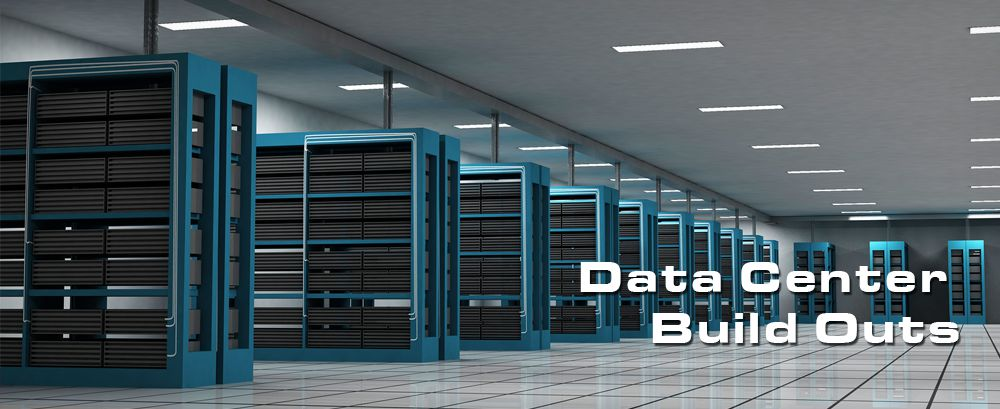
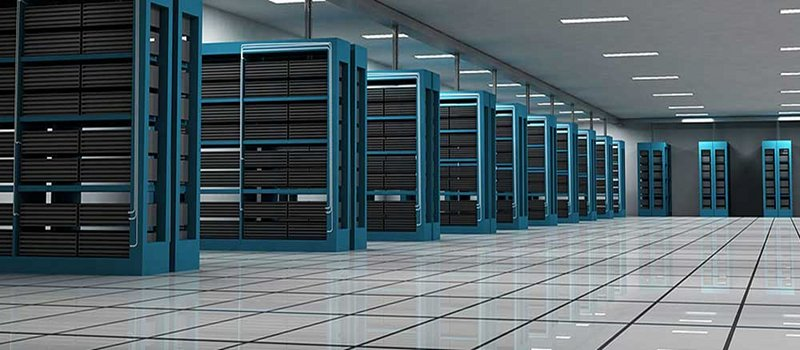
mian hero
starting to change the main hero section, in the main index.hmtl and style.css

diff --git a/style.css b/style.css
@@ -1,6 +1,7 @@
 body{
 margin: 0 !important;
 padding: 0 !important;
+background-color: #EAEAEA;
 /* cursor: url(img/cursor_img/my-mouse-pointer.cur), auto !important; */
 /* cursor: url("img/cursor_img/X3_arrow.gif"), default !important;
 cursor: url("img/cursor_img/X3_arrow.gif"), pointer !important; */
@@ -211,7 +212,6 @@ ul li div a {
     width: 100%;
     height: 100%;
     background-color: #080e20;
-    clip-path: polygon(0 0, 60% 0, 40% 100%, 0 100%);
     animation: slice_animation 0.5s ease-out;
     backface-visibility: hidden;
  
@@ -219,9 +219,8 @@ ul li div a {
 
 .slice::after {
     content: "";
-    background: url(img/test-hero.jpg);
+    background: url(img/heroimage.jpg);
     background-repeat: no-repeat;
- 
     background-size: cover;
     opacity: 0.5;
     top: 0;
@@ -230,21 +229,53 @@ ul li div a {
     right: 0;
     position: absolute;
     z-index: -1;   
+    background-position: 50% 23%;
+  }
+
+  .hero_title{
+      display: inline-block;
+      position: absolute; 
+      transform: translate(-50%,-50%);
+      top: 80%;
+      left: 50%;
+      z-index:13;
+      opacity: 0;
   }
 
 
-@keyframes slice_animation{
-    0%{
-        opacity: 0;
-        transform: translateX(-500px);
-    }
-
-    100%{
-        opacity: 1;
-        transform: translate(0);
-    }
+  .main_title{
+    text-transform: uppercase;
+    position: absolute;
+    z-index: 100;
+    padding: 0;
+    margin:0;
+    left: 0%;
+    top: -74%;
+    transform: translate(-50%,-50%);
+    transform: scale(0.2);
+    color: white;
+    margin-top: 0;
+    text-align: center;
+    white-space: nowrap;
+    overflow: hidden; 
+    text-overflow: ellipsis;
+    white-space: nowrap;
+    opacity: 1;
+    animation: 1s main_logo_up ease ;
+    animation-delay: 1s;
 }
 
+  @keyframes main_logo_up{
+      0%{
+          top: -74;
+   
+      }
+
+      100%{
+        top: -80%;
+
+        }
+  }
 
 
 .video_slice video{
@@ -395,24 +426,7 @@ ul li div a {
 
 
 
-.main_title{
-    text-transform: uppercase;
-    position: absolute;
-    z-index: 100;
-    padding: 0;
-    margin:0;
-    left:75%;
-    top: 52%;
-    transform: translate(-50%,-50%);
-    color: white;
-    margin-top: 0;
-    text-align: center;
-    white-space: nowrap;
-    overflow: hidden; 
-    text-overflow: ellipsis;
-    white-space: nowrap;
 
-}
 
 
 .main_title div{

diff --git a/fonts/fonts.css b/fonts/fonts.css
@@ -42,7 +42,11 @@ h5{
     font-size: calc(14px + (17 - 14) * ((100vw - 300px) / (1900 - 700)))!important;
 } 
 
-
+.hero_title{
+    font-size: calc(24px + (90 - 24) * ((100vw - 300px) / (1900 - 700)))!important;
+    font-family: 'Roboto'!important;
+    color:white;
+}
 .main_title div{
     font-size: calc(24px + (90 - 24) * ((100vw - 300px) / (1900 - 700)))!important;
     font-family: 'Roboto'!important;

diff --git a/grids/main_grid.css b/grids/main_grid.css
@@ -206,7 +206,7 @@
 }
 
 
-@media (min-width : 280px)  and (max-width: 768px) {
+@media (min-width : 230px)  and (max-width: 768px) {
     .fancy_cards{  
         display: none;
     }

diff --git a/index.php b/index.php
@@ -129,10 +129,9 @@
     <div class="hero" >
 
 
-        <h1 class="main_title">
-               <div class="com_name" unselectable="on">GT Group</div>  
-               <div> <small unselectable="on">inteligent solution</small> </div>
-        </h1>
+      
+               <img class="main_title  " src="img/icons/logo2.svg" alt="">
+                <h1 class="display-2 hero_title" > Inteligent Solution</h1>
 
 
 
@@ -145,17 +144,6 @@
         </div>
 
 
-        <div class="hero_sm_image1">
-            <img src="img/server2_transparant.png" alt="">
-        </div>
-
-        <div class="hero_sm_image2">
-                <img src="img/server3_transparant.png" alt="">
-            </div>
-            
-            <div class="hero_sm_image3">
-            <img style="filter: invert(100%)" src="img/server4_transparant.png" alt="">
-        </div>
         
         
         
